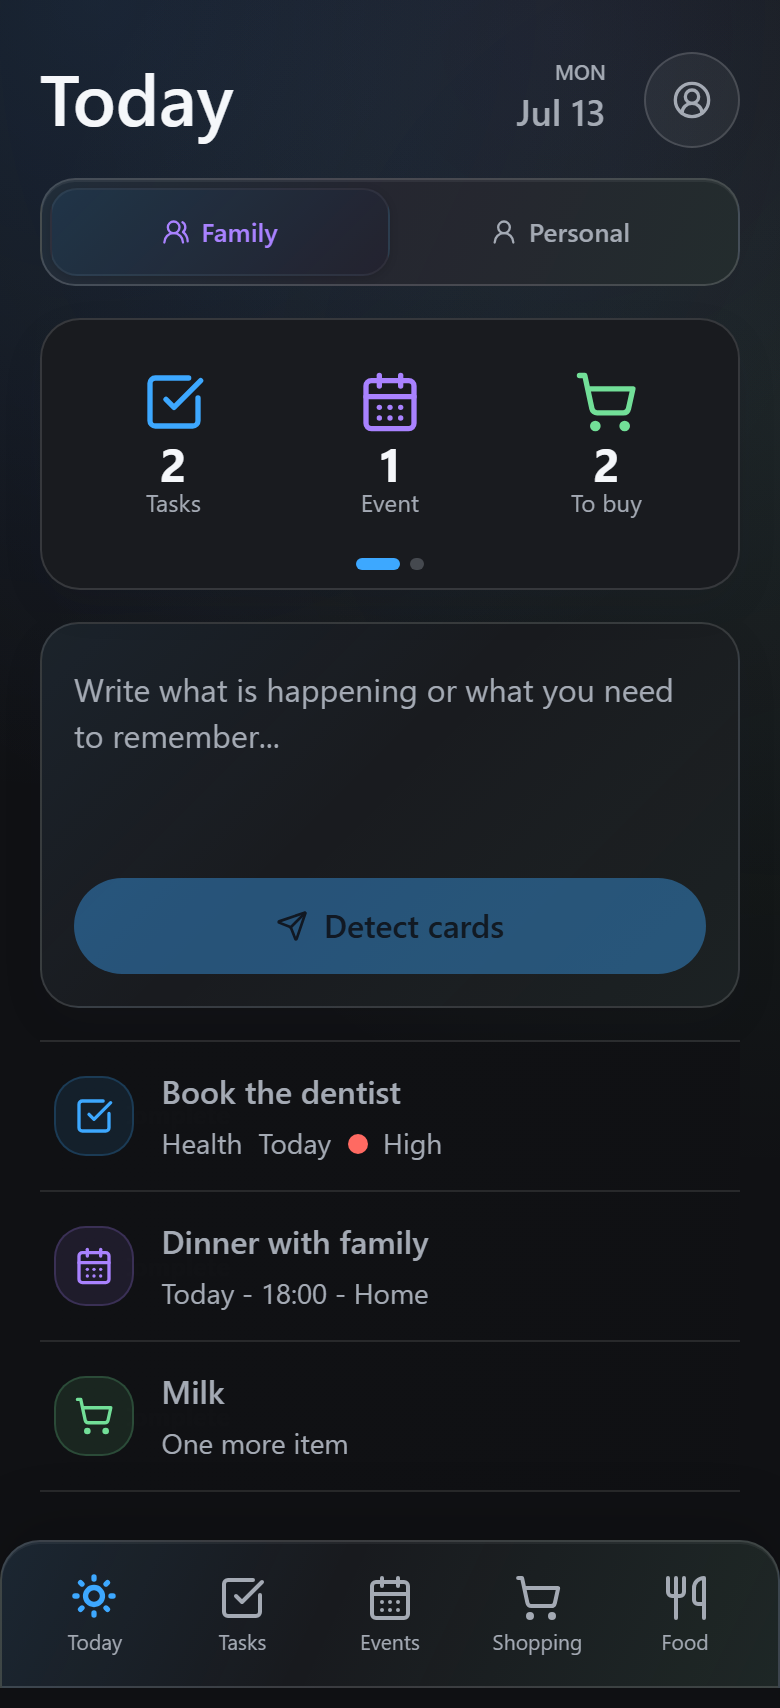
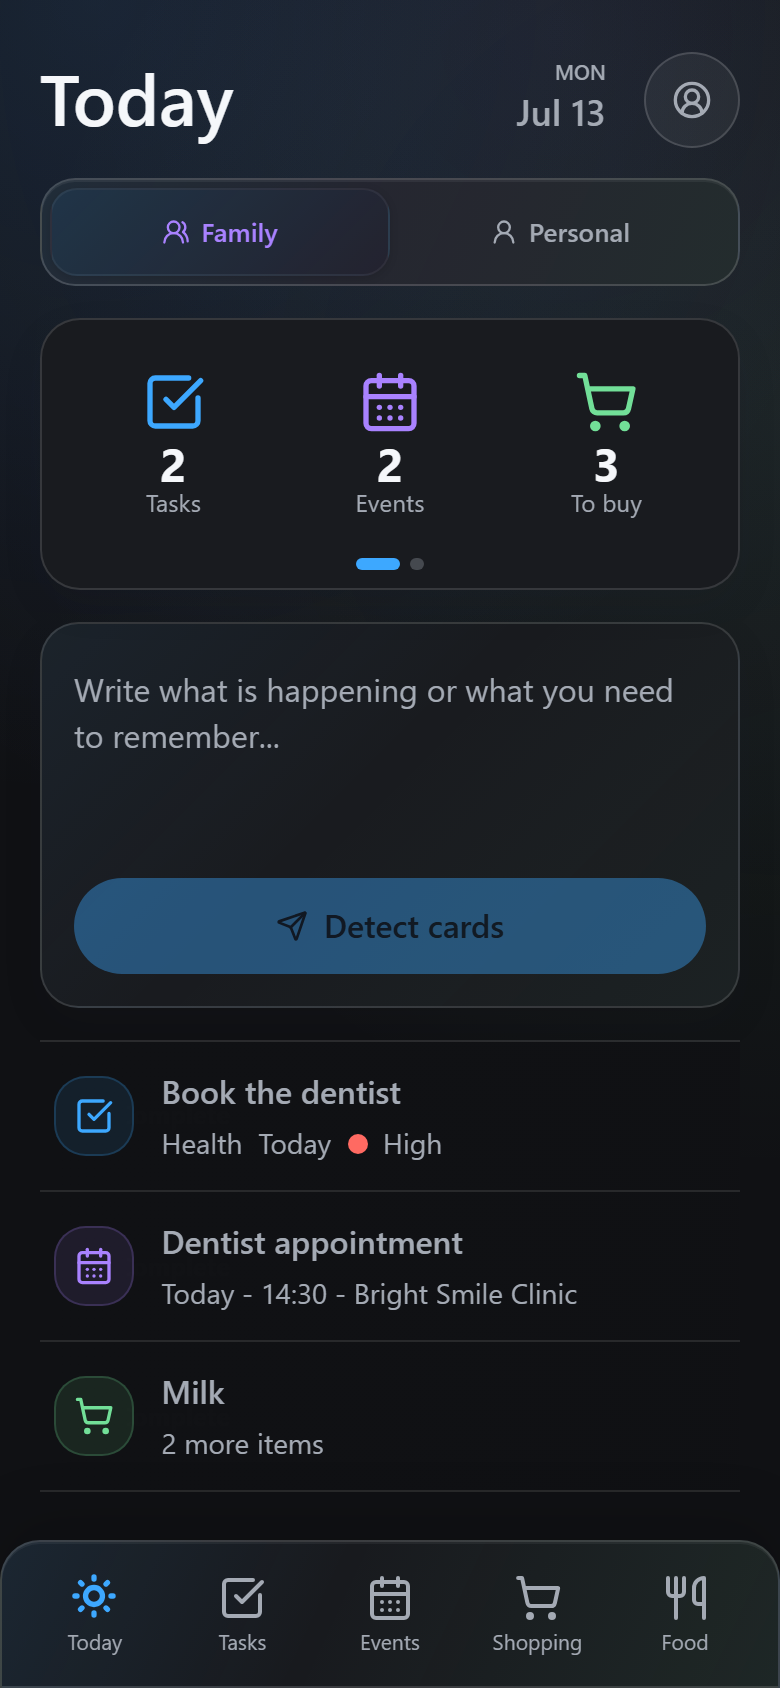
Expand README screenshot gallery

diff --git a/README.md b/README.md
@@ -6,16 +6,41 @@ Each family deploys and owns its own instance. This repository does not connect 
 
 ## Screenshots
 
+### Dark mode
+
 <table>
   <tr>
-    <td><img src="docs/screenshots/vardag-today-dark.png" alt="Vardag Today overview" width="260"></td>
-    <td><img src="docs/screenshots/vardag-tasks-dark.png" alt="Vardag task list" width="260"></td>
-    <td><img src="docs/screenshots/vardag-food-dark.png" alt="Vardag food planning and vote" width="260"></td>
+    <td><img src="docs/screenshots/vardag-today-dark.png" alt="Vardag Today in dark mode" width="150"></td>
+    <td><img src="docs/screenshots/vardag-tasks-dark.png" alt="Vardag Tasks in dark mode" width="150"></td>
+    <td><img src="docs/screenshots/vardag-events-dark.png" alt="Vardag Events in dark mode" width="150"></td>
+    <td><img src="docs/screenshots/vardag-shopping-dark.png" alt="Vardag Shopping in dark mode" width="150"></td>
+    <td><img src="docs/screenshots/vardag-food-dark.png" alt="Vardag Food in dark mode" width="150"></td>
   </tr>
   <tr>
     <td align="center">Today</td>
     <td align="center">Tasks</td>
-    <td align="center">Food and votes</td>
+    <td align="center">Events</td>
+    <td align="center">Shopping</td>
+    <td align="center">Food</td>
+  </tr>
+</table>
+
+### Light mode
+
+<table>
+  <tr>
+    <td><img src="docs/screenshots/vardag-today-light.png" alt="Vardag Today in light mode" width="150"></td>
+    <td><img src="docs/screenshots/vardag-tasks-light.png" alt="Vardag Tasks in light mode" width="150"></td>
+    <td><img src="docs/screenshots/vardag-events-light.png" alt="Vardag Events in light mode" width="150"></td>
+    <td><img src="docs/screenshots/vardag-shopping-light.png" alt="Vardag Shopping in light mode" width="150"></td>
+    <td><img src="docs/screenshots/vardag-food-light.png" alt="Vardag Food in light mode" width="150"></td>
+  </tr>
+  <tr>
+    <td align="center">Today</td>
+    <td align="center">Tasks</td>
+    <td align="center">Events</td>
+    <td align="center">Shopping</td>
+    <td align="center">Food</td>
   </tr>
 </table>
 